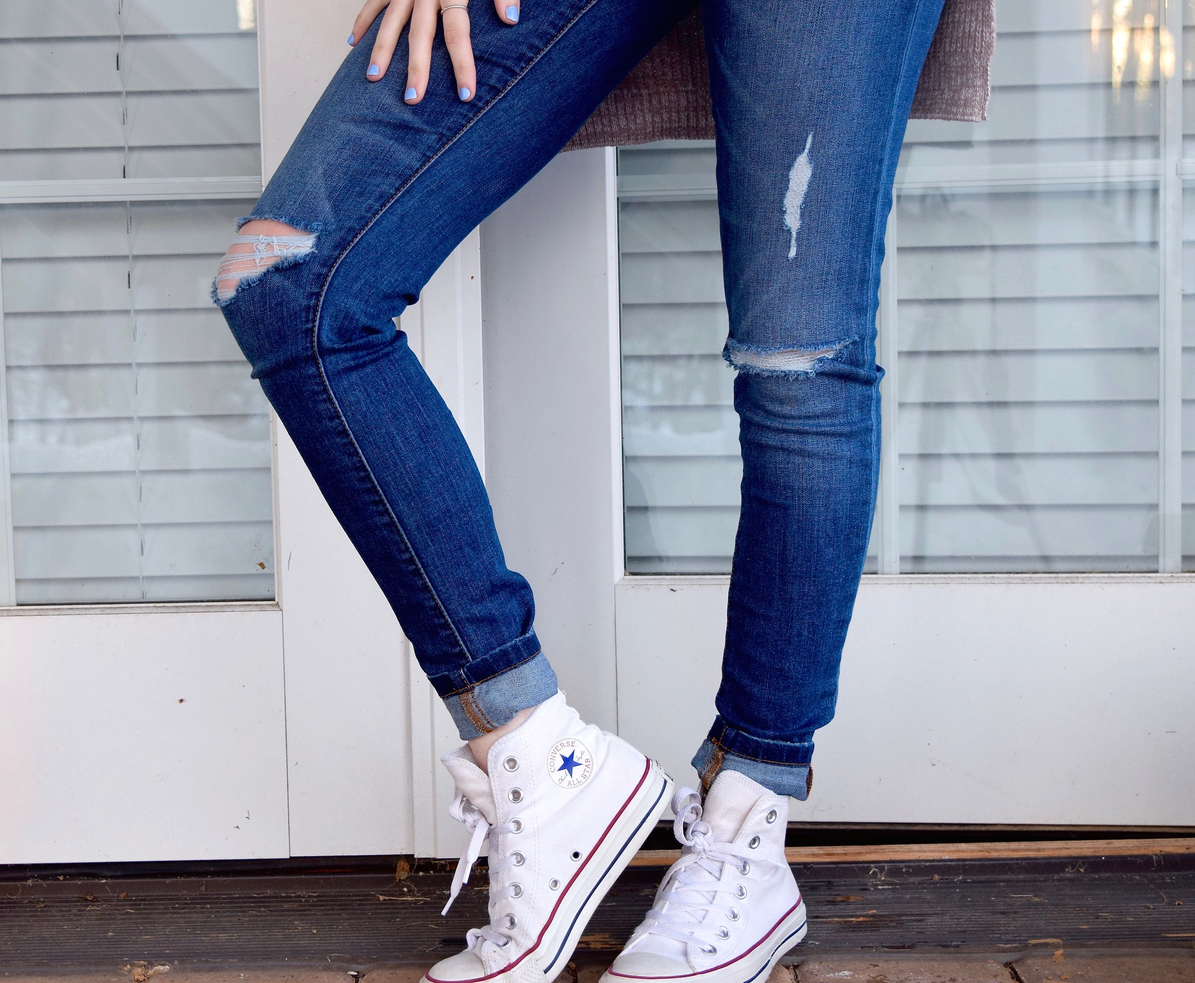
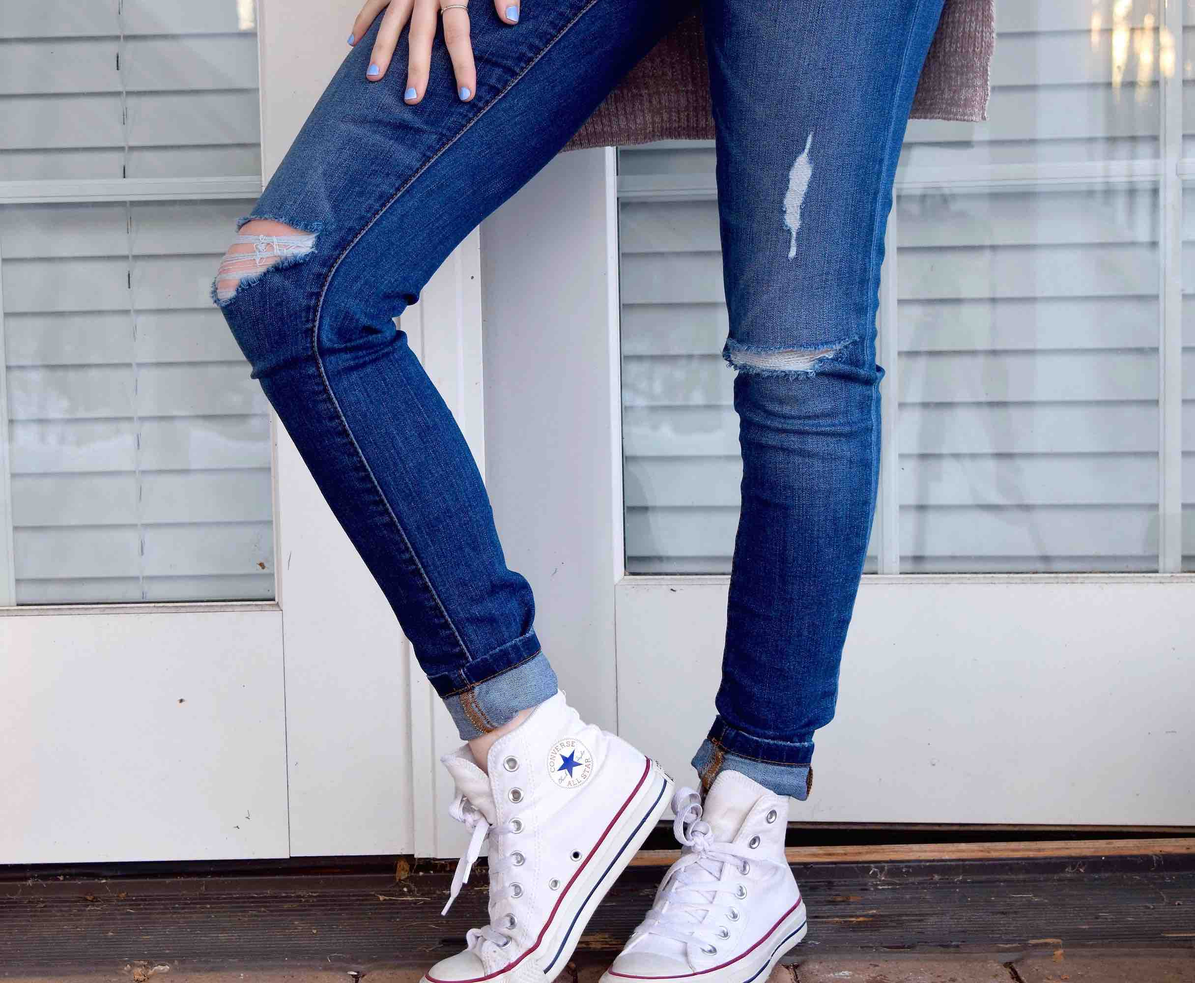
Update images

diff --git a/frontend/jeansorshorts.js b/frontend/jeansorshorts.js
@@ -43,7 +43,7 @@ function jeansOrShorts(data) {
   if (data.main.temp_max < 295.15) {
     document.getElementById('jeansOrShorts').innerHTML = "<img src='images/jeans.jpg'/>";
   } else {
-    document.getElementById('jeansOrShorts').innerHTML = "<img src='images/shorts.png'/>";
+    document.getElementById('jeansOrShorts').innerHTML = "<img src='images/shorts.jpg'/>";
   }
 }
 
